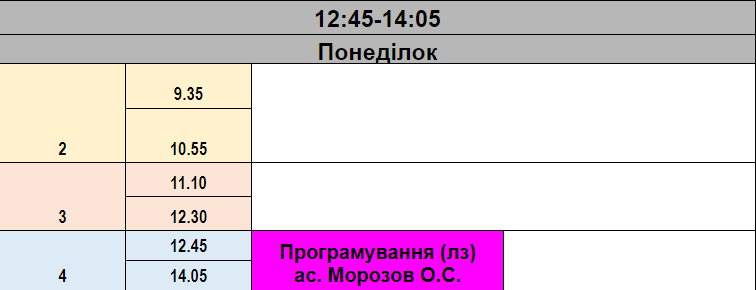
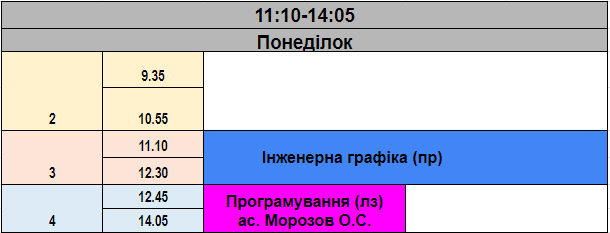
Update

Changed region(s): [[0.0, 0.0, 1.0, 1.0]]

diff --git a/main.py b/main.py
@@ -253,9 +253,6 @@ async def notify(pars):
     for user in notifyUsers:
         if int(week) % 2 == 0:
             if datetime.weekday(datetime.today()) == 0:
-                if int(pars) == 2:
-                    await bot.send_message(chat_id=user,
-                                           text=f'Через 5 минут начнется пара {config.mon_b_2}')
                 if int(pars) == 3:
                     await bot.send_message(chat_id=user,
                                            text=f'Через 5 минут начнется пара {config.mon_b_3}')
@@ -306,6 +303,9 @@ async def notify(pars):
                     pass
         else:
             if datetime.weekday(datetime.today()) == 0:
+                if int(pars) == 3:
+                    await bot.send_message(chat_id=user,
+                                           text=f'Через 5 минут начнется пара {config.mon_a_3}')
                 if int(pars) == 4:
                     await bot.send_message(chat_id=user,
                                            text=f'Через 5 минут начнется пара {config.mon_4}')
